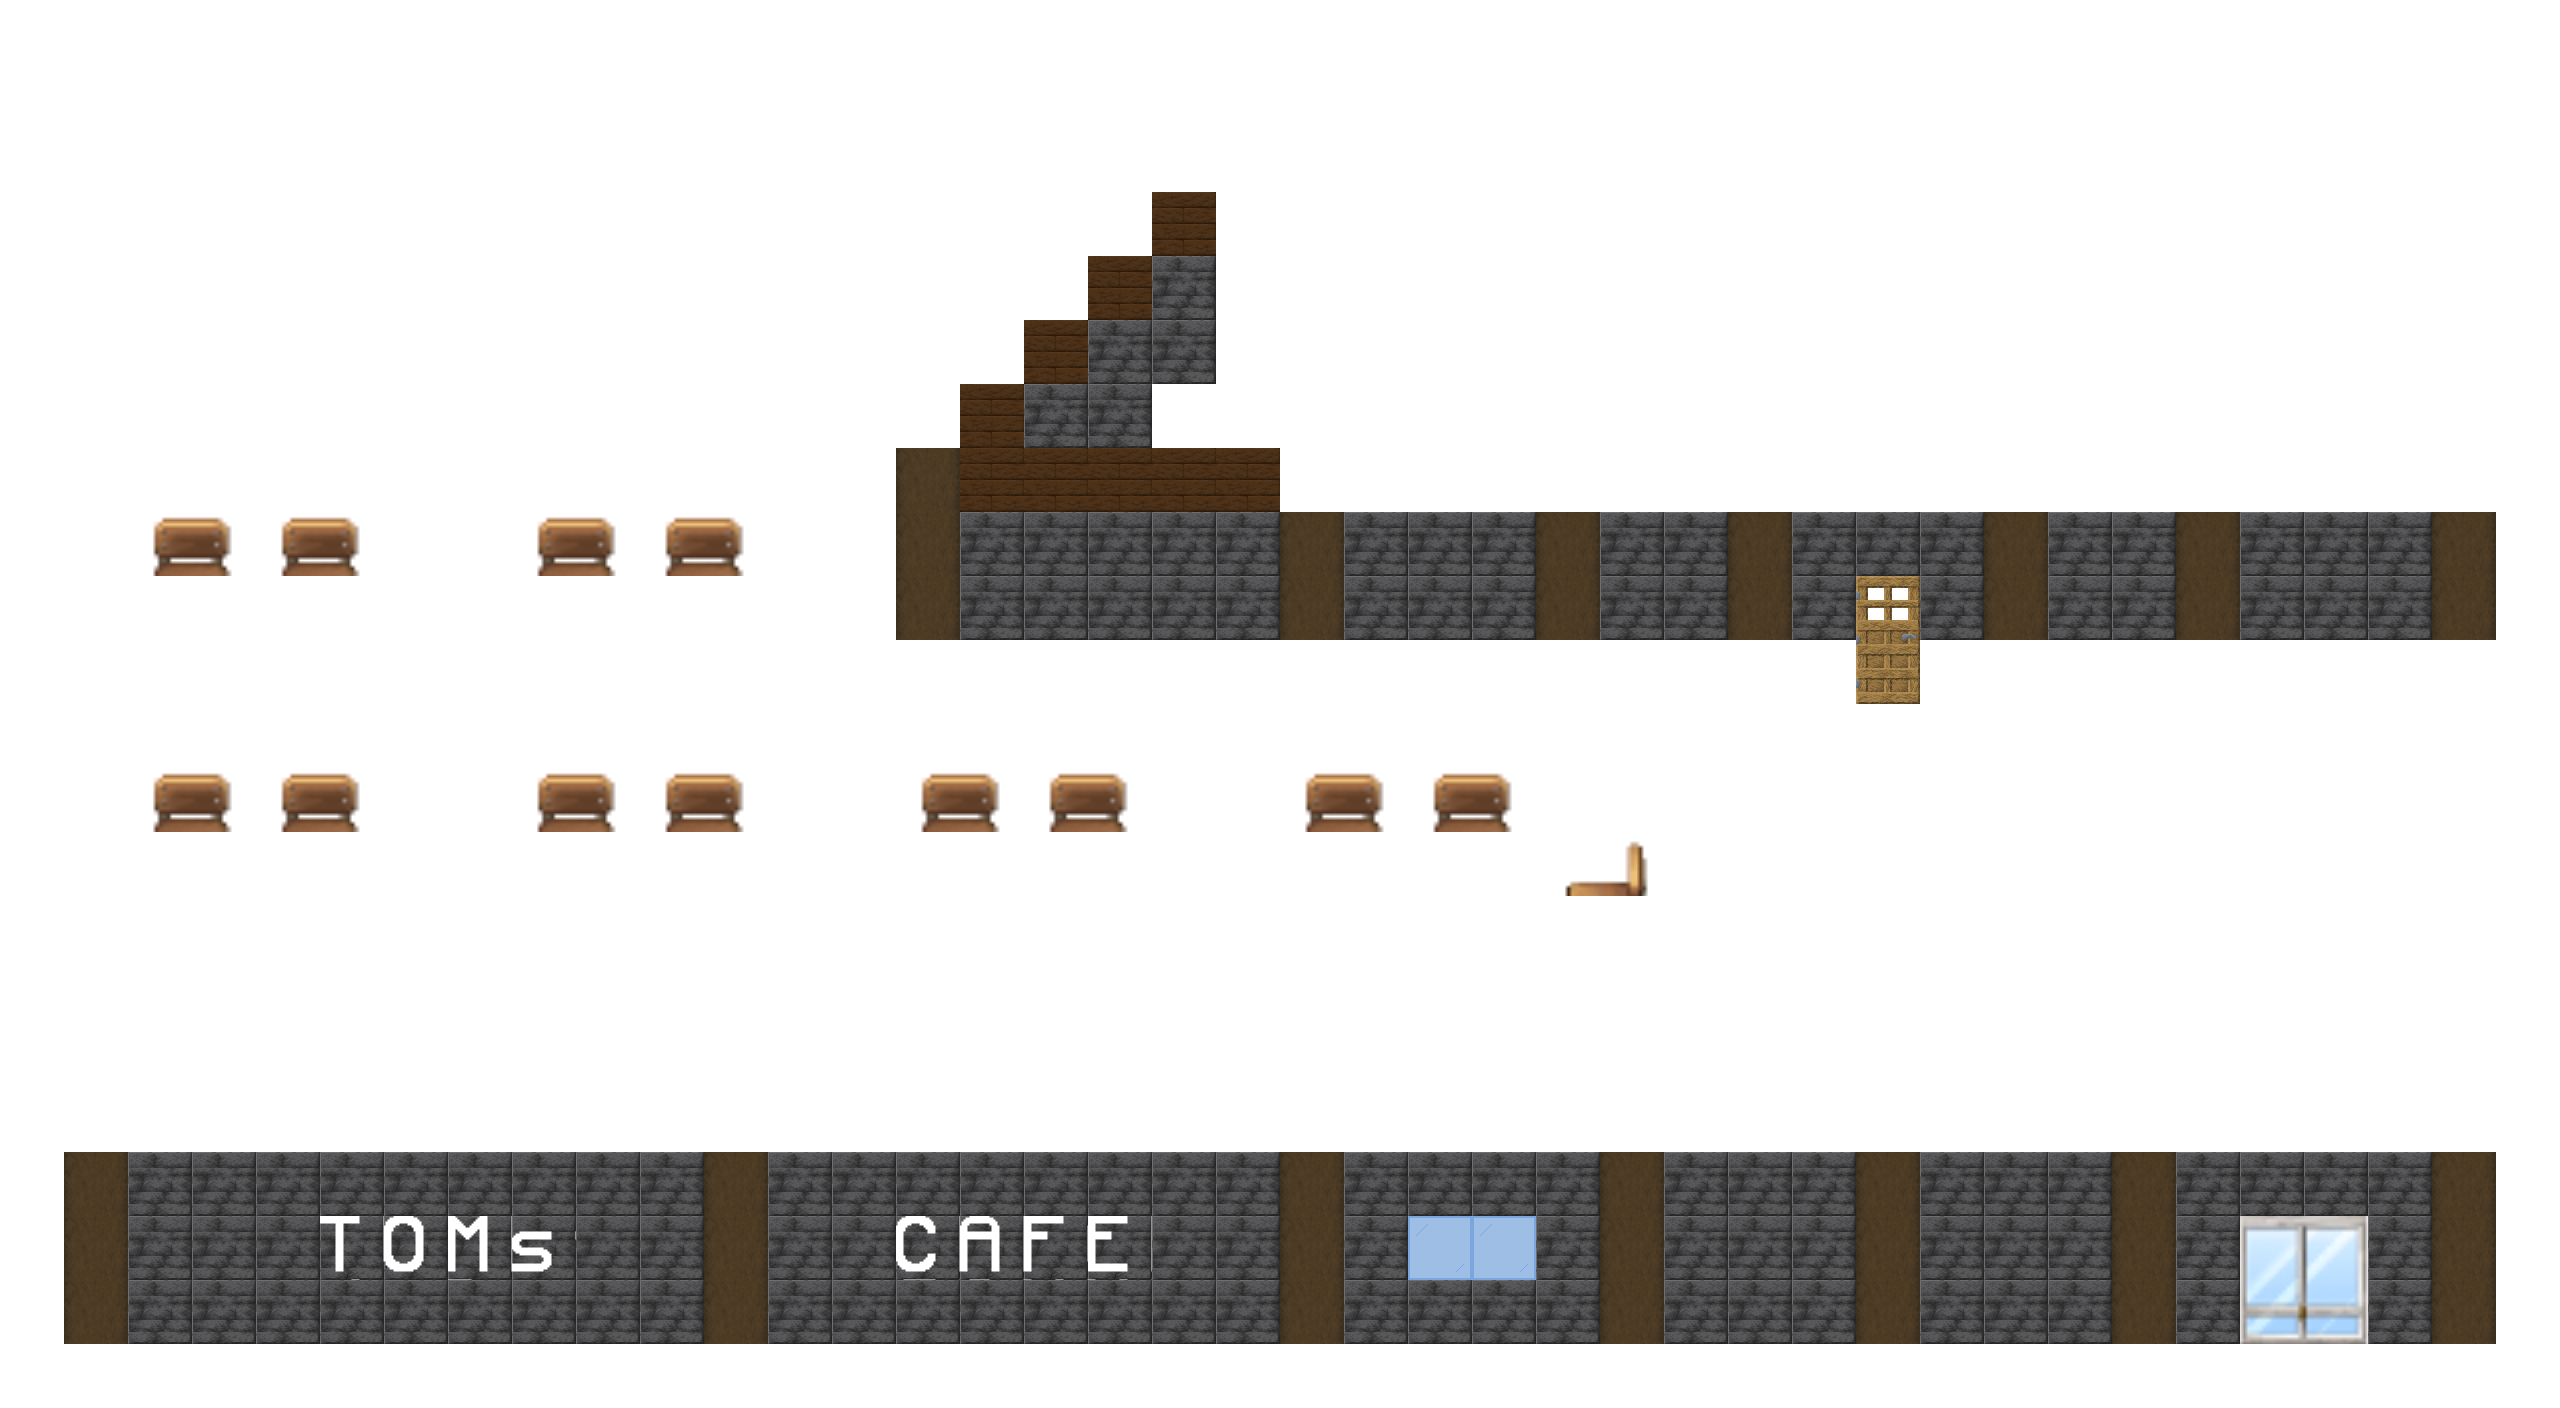
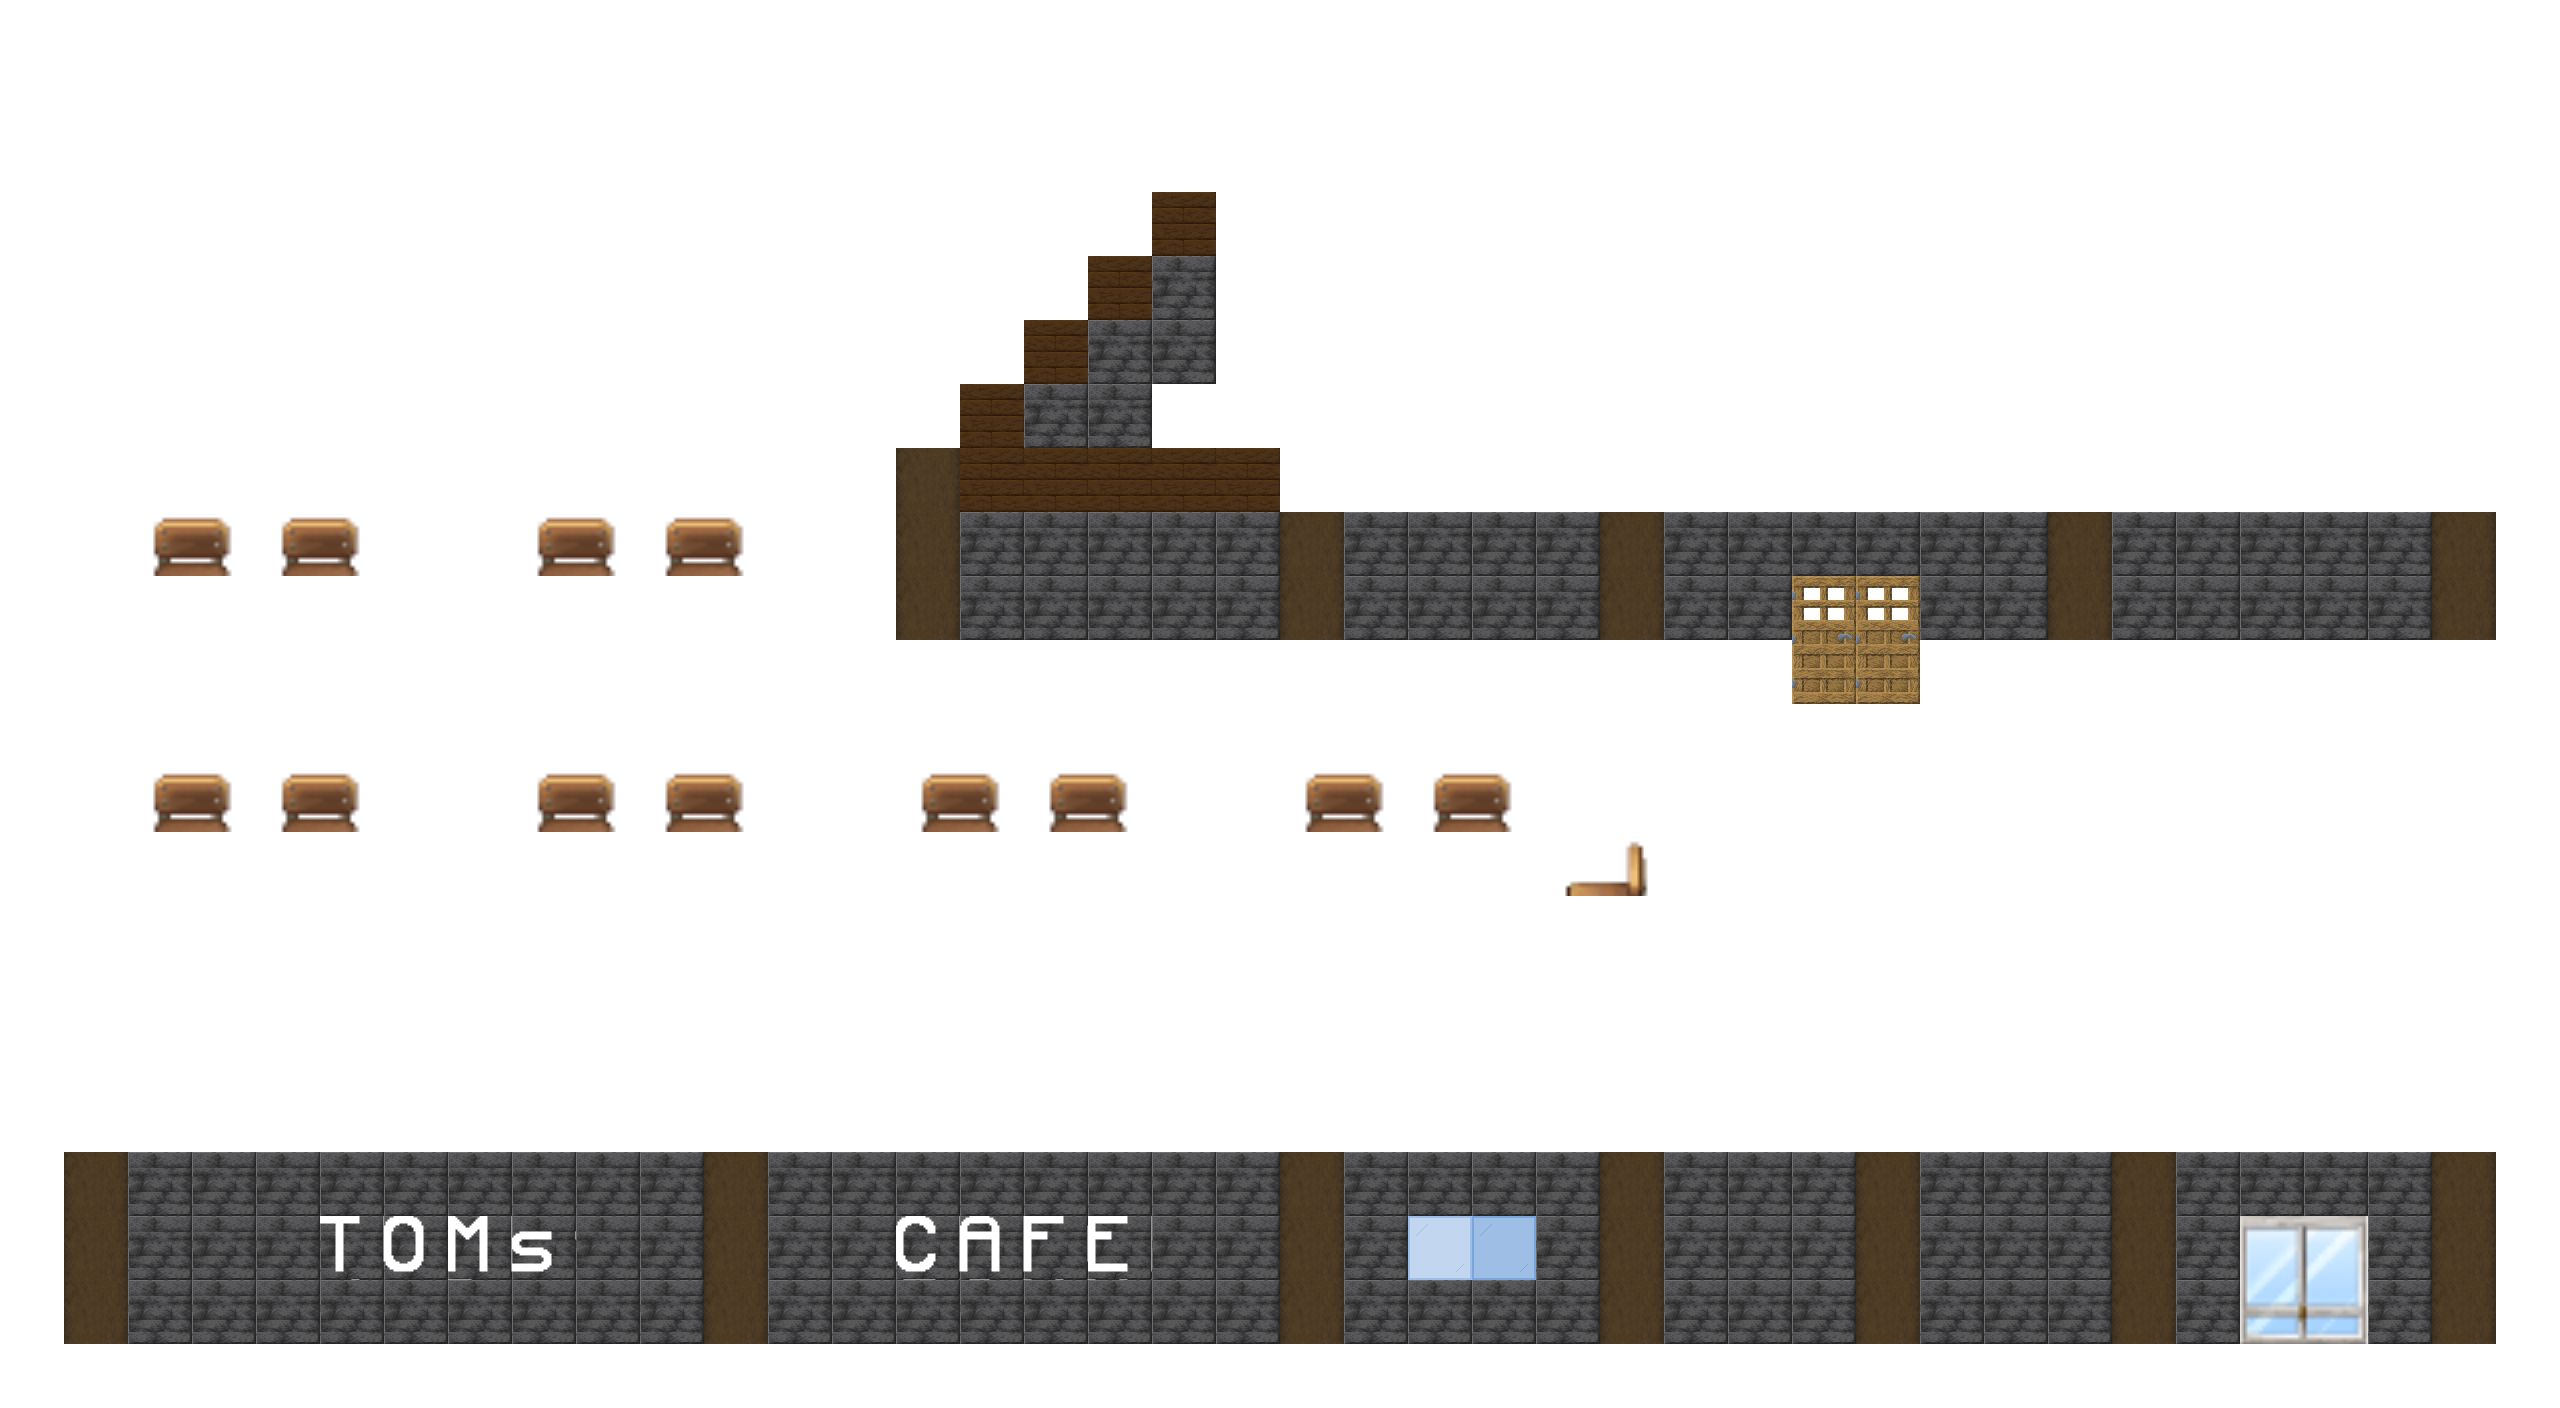
anfang hud

Changed region(s): [[0.5938, 0.3438, 0.875, 0.5], [0.5312, 0.8438, 0.5938, 0.9062]]

diff --git a/assets/data/houseTwo_collisions.js b/assets/data/houseTwo_collisions.js
@@ -18,7 +18,7 @@ const collisionsData_houseTwo = [
     0, 1, 0, 0, 0, 0, 0, 0, 0, 0, 0, 0, 0, 0, 0, 0, 0, 0, 0, 0, 0, 0, 0, 0, 0, 0, 0, 0, 0, 0, 0, 1, 0, 0, 0, 0, 0, 0, 0, 0, 0, 0, 1, 0, 0, 0, 0, 0, 0, 0, 0, 0, 0, 0, 0, 0, 0, 0, 0, 0, 0, 0, 0, 0, 0, 0, 0, 0, 0, 0, 0, 0, 0, 0, 0, 0, 0, 0, 1, 0,
     0, 1, 0, 0, 0, 0, 0, 0, 0, 0, 0, 0, 0, 0, 0, 0, 0, 0, 0, 0, 0, 0, 0, 0, 0, 0, 0, 0, 0, 0, 1, 0, 0, 0, 0, 0, 0, 0, 0, 0, 0, 0, 1, 0, 0, 0, 0, 0, 0, 0, 0, 0, 0, 0, 0, 0, 0, 0, 0, 0, 0, 0, 0, 0, 0, 0, 0, 0, 0, 0, 0, 0, 0, 0, 0, 0, 0, 0, 1, 0,
     0, 1, 0, 0, 1, 1, 1, 1, 1, 1, 1, 1, 0, 0, 0, 0, 1, 1, 1, 1, 1, 1, 1, 1, 0, 0, 0, 0, 0, 1, 0, 0, 0, 0, 0, 0, 0, 0, 0, 0, 0, 0, 1, 0, 0, 0, 0, 0, 0, 0, 0, 0, 0, 0, 0, 0, 0, 0, 0, 0, 0, 0, 0, 0, 0, 0, 0, 0, 0, 0, 0, 0, 0, 0, 0, 0, 0, 0, 1, 0,
-    0, 1, 0, 0, 1, 1, 1, 1, 1, 1, 1, 1, 0, 0, 0, 0, 1, 1, 1, 1, 1, 1, 1, 1, 0, 0, 0, 0, 1, 1, 1, 1, 1, 1, 1, 1, 1, 1, 1, 1, 1, 0, 0, 1, 1, 1, 1, 1, 1, 1, 1, 1, 1, 1, 1, 1, 1, 1, 0, 0, 1, 1, 1, 1, 1, 1, 1, 1, 1, 1, 1, 1, 1, 1, 1, 1, 1, 1, 0, 0,
+    0, 1, 0, 0, 1, 1, 1, 1, 1, 1, 1, 1, 0, 0, 0, 0, 1, 1, 1, 1, 1, 1, 1, 1, 0, 0, 0, 0, 1, 1, 1, 1, 1, 1, 1, 1, 1, 1, 1, 1, 1, 0, 0, 1, 1, 1, 1, 1, 1, 1, 1, 1, 1, 1, 1, 1, 0, 0, 0, 0, 1, 1, 1, 1, 1, 1, 1, 1, 1, 1, 1, 1, 1, 1, 1, 1, 1, 1, 0, 0,
     0, 1, 0, 0, 0, 0, 0, 0, 0, 0, 0, 0, 0, 0, 0, 0, 0, 0, 0, 0, 0, 0, 0, 0, 0, 0, 0, 0, 0, 0, 0, 0, 0, 0, 0, 0, 0, 0, 0, 0, 0, 1, 1, 0, 0, 1, 1, 0, 0, 0, 0, 0, 0, 0, 0, 0, 0, 0, 0, 0, 0, 0, 0, 0, 0, 0, 0, 0, 0, 0, 0, 0, 1, 0, 0, 0, 0, 0, 0, 0,
     0, 1, 0, 0, 0, 0, 0, 0, 0, 0, 0, 0, 0, 0, 0, 0, 0, 0, 0, 0, 0, 0, 0, 0, 0, 0, 0, 0, 0, 0, 0, 0, 0, 0, 0, 0, 0, 0, 0, 0, 0, 0, 0, 0, 0, 0, 0, 0, 0, 0, 0, 0, 0, 0, 0, 0, 0, 0, 0, 0, 0, 0, 0, 0, 0, 0, 0, 0, 0, 0, 0, 0, 1, 0, 0, 0, 0, 0, 0, 0,
     0, 1, 0, 0, 0, 0, 0, 0, 0, 0, 0, 0, 0, 0, 0, 0, 0, 0, 0, 0, 0, 0, 0, 0, 0, 0, 0, 0, 0, 0, 0, 0, 0, 0, 0, 0, 0, 0, 0, 0, 0, 0, 0, 0, 0, 0, 0, 0, 0, 0, 0, 0, 0, 0, 0, 0, 0, 0, 0, 0, 0, 0, 0, 0, 0, 0, 0, 0, 0, 0, 0, 0, 1, 0, 0, 0, 0, 0, 0, 0,

diff --git a/js/classes/gui.js b/js/classes/gui.js
@@ -1,0 +1,27 @@
+class Gui {
+    constructor({location = bottom, canvasDimension, c}) {
+        this.location = location
+        this.canvasDimension = canvasDimension
+        
+        this.c = c
+
+        
+
+
+        
+    }
+
+    draw() {
+        this.drawBg()
+    }
+
+    drawBg() {
+        this.c.fillStyle = '#0D0D0D'
+        this.c.fillRect(
+            0,
+            this.canvasDimension.height - 200,
+            this.canvasDimension.width,
+            this.canvasDimension.height
+        )
+    }
+}
